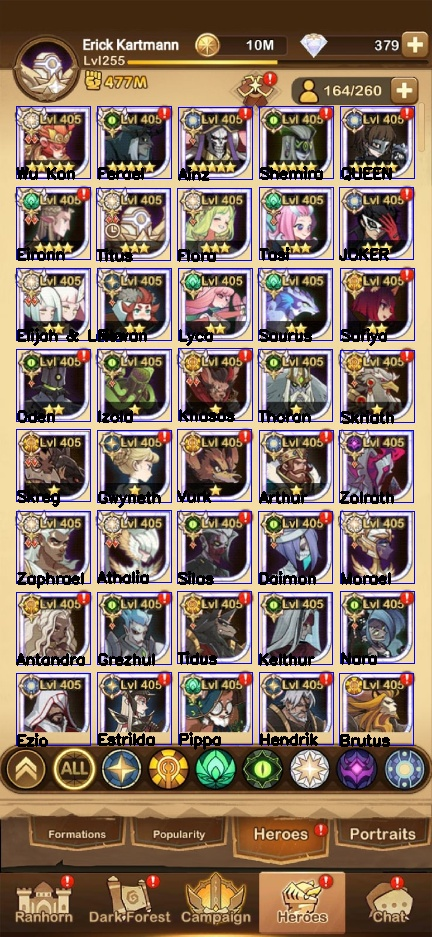
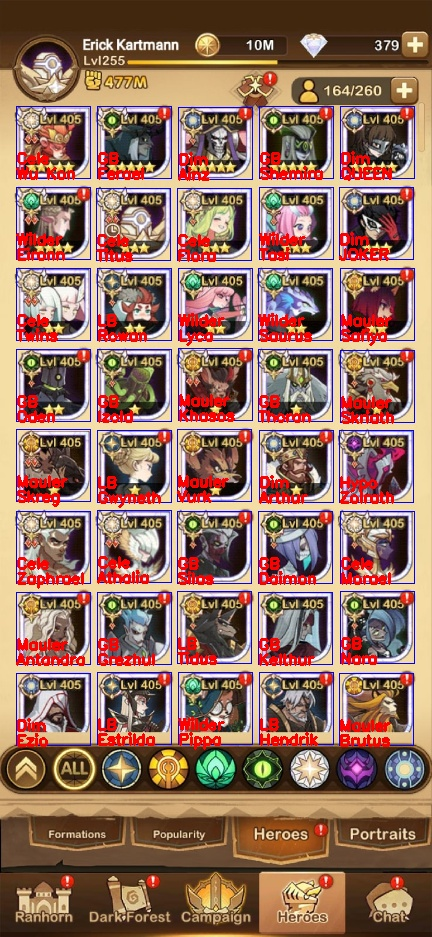
Log into txt file, Failure and Success

diff --git a/Script.py b/Script.py
@@ -10,6 +10,9 @@ img = cv2.resize(DefaultHeroList, (0, 0), fx=Size, fy=Size)
 img2 = img.copy()
 faces = Path(directory).glob('*')
 
+success_dict = {}  # Dictionary of heroes successfully matched/ Key:hero name Value: Fraction, SI, Furn
+failure_list = []  # List of failed matching
+
 
 def increase_box_size_left_upper_corner(corner):
     if (corner[0] - 22) < 0:
@@ -45,28 +48,47 @@ def fraction_check(zone):
         fimage_name = str(frac).split("\\")[-1]
         fdict[fimage_name[0:-4]] = str(fmax_val)[0:4]
     fdictlist = sorted(fdict.items(), key=lambda x: x[1], reverse=True)
+    print(fdict, file=log)
     print(fdict)
     return fdictlist[0]
 
 
-for face in faces:
-    val, LeftCorner, RightCorner = template_match(face)
-    crop = img[LeftCorner[1]:RightCorner[1], LeftCorner[0]:RightCorner[0]]
-    image_name = str(face).split("\\")[-1]
-    # cv2.putText(crop2, str(val)[0:4], (0, 50), cv2.FONT_HERSHEY_SIMPLEX, 1, (0, 0, 0, 0), 3)  # Match value
-    if val > 0.85:  # If matched successful
-        print(str(val)[0:4], str(face).split("\\")[-1])
-        cv2.imwrite(f'Result/Success/{image_name}', crop)
-        cv2.rectangle(img2, LeftCorner, RightCorner, 255, 1)
-        # Put Character Name On Result Sheet
-        TextLoc = (LeftCorner[0], RightCorner[1])
-        if image_name[0:-4].isalpha():
-            cv2.putText(img2, image_name[0:-4], TextLoc, cv2.FONT_HERSHEY_SIMPLEX, 0.5, (0, 0, 0, 0), 2)
+with open('Result/Log.txt', 'w') as log:
+    for face in faces:
+        val, LeftCorner, RightCorner = template_match(face)
+        crop = img[LeftCorner[1]:RightCorner[1], LeftCorner[0]:RightCorner[0]]
+        image_name = str(face).split("\\")[-1]
+        # cv2.putText(crop2, str(val)[0:4], (0, 50), cv2.FONT_HERSHEY_SIMPLEX, 1, (0, 0, 255), 3)  # Match value
+        if val > 0.85:  # If matched successful
+            print(str(val)[0:4], str(face).split("\\")[-1])
+            print(str(val)[0:4], str(face).split("\\")[-1], file=log)
+            cv2.imwrite(f'Result/Success/{image_name}', crop)
+            cv2.rectangle(img2, LeftCorner, RightCorner, 255, 1)
+            # Put Character Name On Result Sheet
+            text_loc = (LeftCorner[0], RightCorner[1])
+            frac_text_loc = (LeftCorner[0], RightCorner[1] - 15)
+            mod_check_crop = crop[0:int((crop.shape[0]) / 1.8), 0:int((crop.shape[1]) / 2.3)]  # Zone for mod check
+            fraction = fraction_check(mod_check_crop)[0]
+            # print(fraction[0])
+            if image_name[0:-4].isalpha():
+                # put Hero name on result jpg
+                cv2.putText(img2, image_name[0:-4], text_loc, cv2.FONT_HERSHEY_SIMPLEX, 0.5, (0, 0, 255), 2)
+                if image_name[0:-4] not in success_dict:
+                    success_dict[image_name[0:-4]] = [fraction]  # Add hero to dict
+            else:
+                cv2.putText(img2, image_name[0:-5], text_loc, cv2.FONT_HERSHEY_SIMPLEX, 0.5, (0, 0, 255), 2)
+                if image_name[0:-5] not in success_dict:
+                    success_dict[image_name[0:-5]] = [fraction]
+            cv2.putText(img2, fraction, frac_text_loc, cv2.FONT_HERSHEY_SIMPLEX, 0.5, (0, 0, 255), 2)
+
         else:
-            cv2.putText(img2, image_name[0:-5], TextLoc, cv2.FONT_HERSHEY_SIMPLEX, 0.5, (0, 0, 0, 0), 2)
-        mod_check_crop = crop[0:int((crop.shape[0]) / 1.8), 0:int((crop.shape[1]) / 2.3)]  # Zone for mod check
-        fraction = fraction_check(mod_check_crop)
-        print(fraction[0])
-    else:
-        cv2.imwrite(f'Result/Failure/{image_name}', crop)
-cv2.imwrite(f'Result/result.jpg', img2)  # ResultSheet
+            cv2.imwrite(f'Result/Failure/{image_name}', crop)
+            if image_name[0:-4].isalpha():
+                failure_list.append(image_name[0:-4])
+            else:
+                failure_list.append(image_name[0:-5])
+    cv2.imwrite(f'Result/result.jpg', img2)  # ResultSheet
+    print(f'\nFailure list\n{failure_list}')
+    print(f'\nFailure list\n{failure_list}', file=log)
+    print(f'\nSuccess dict\n{success_dict}')
+    print(f'\nSuccess dict\n{success_dict}', file=log)
